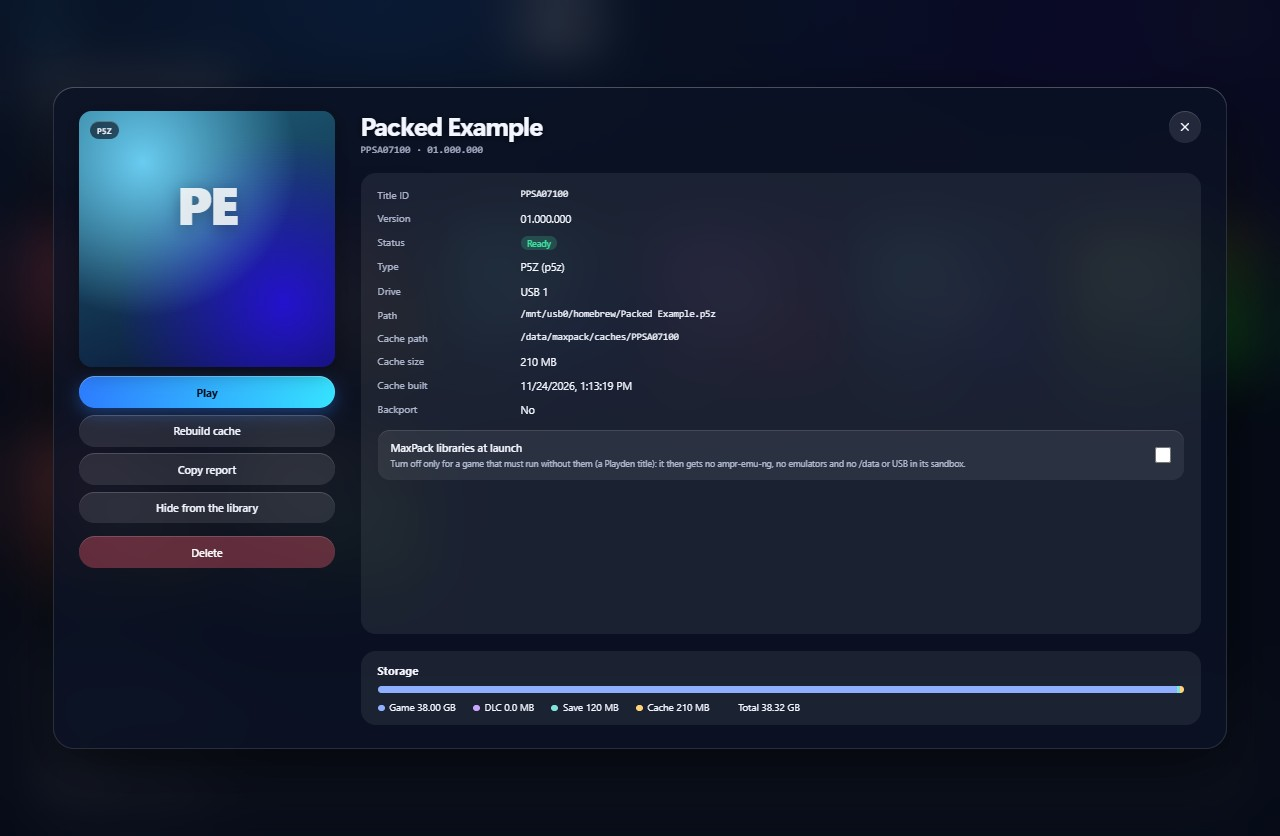
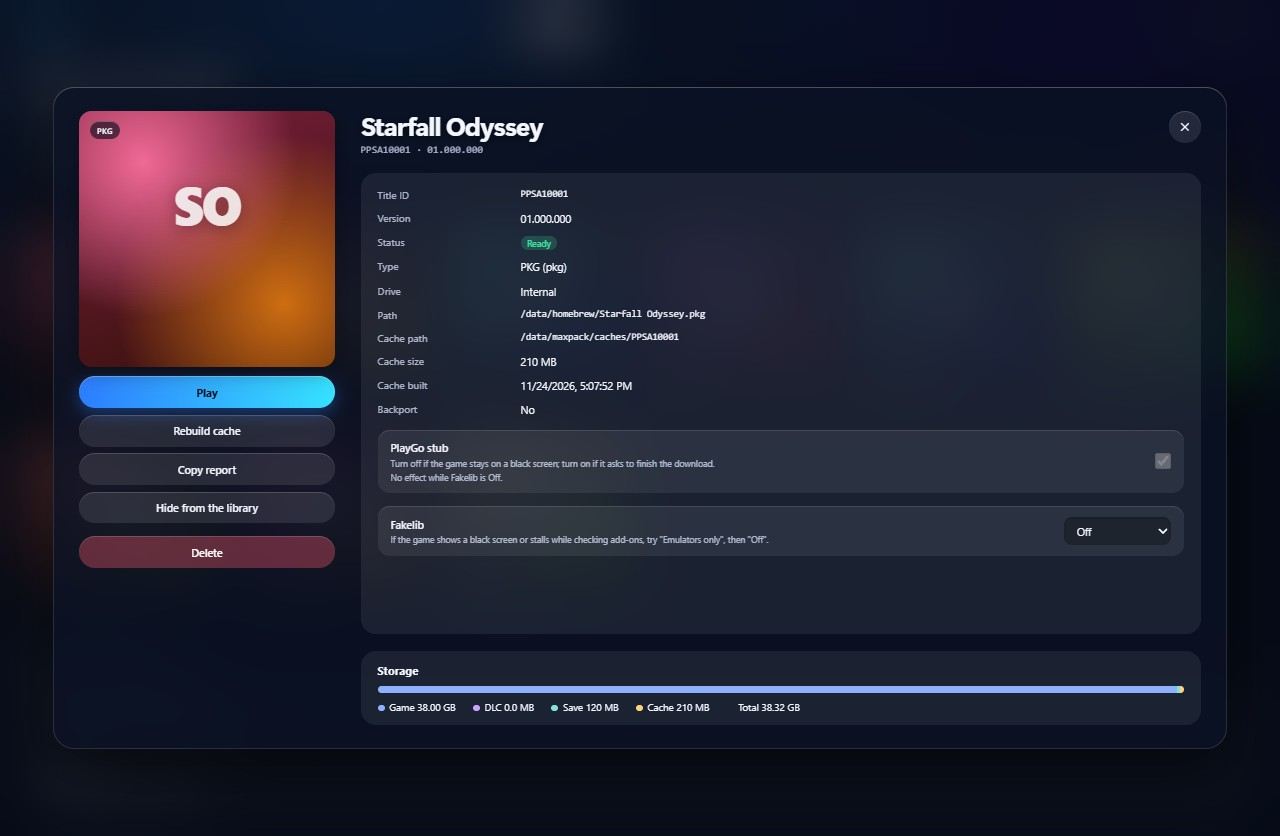
Compatibility list without game names; Copy report row to match; new game sheet screenshot
- docs/compatibility.md: a new table that names no game and gives no title ID (Original -> .p5z,
  Format, Volumes, Drive, Firmware, Loader/mounter, Fakelib mode, Result, Date, Notes), with the
  console results of 24 Nov 2026 for games A, B and C and the earlier zstd folder test.
- Game report form: the same fields, no name or title ID asked for.
- report::compat_row: the row in the new column order, with Drive (drive_text) and Fakelib mode,
  and no name, title ID or game version; the mock, DESIGN.md and the checklist follow.
- docs/img/console-game.jpg: retaken from the mock, a game sheet with the Fakelib selector set to Off.

diff --git a/tools/mock_ui.js b/tools/mock_ui.js
@@ -392,8 +392,12 @@ http.createServer((req, res) => {
       const g = games().find((x) => x.title_id === p.slice('/api/report/'.length));
       if (!g) return send(res, 404, 'text/plain', 'not found');
       // The shape of maxpack_logic::report::text, with fixed values.
-      const kinds = { pkg: ['pkg', 'pkg'], p5z: ['p5z', 'p5z'], plain: ['folder', 'carpeta'], zstd: ['folder (zstd)', 'carpeta zstd'], lz4: ['folder (lz4)', 'carpeta lz4'] };
-      const [en, es] = kinds[g.kind === 'folder' ? g.packing : g.kind];
+      const kinds = { pkg: ['pkg', 'pkg'], p5z: ['p5z', 'p5z'], plain: ['folder', 'plain folder'], zstd: ['folder (zstd)', 'zstd folder'], lz4: ['folder (lz4)', 'LZ4 folder'] };
+      const [en, format] = kinds[g.kind === 'folder' ? g.packing : g.kind];
+      // maxpack_logic::report::compat_row: no name, no title id; drive_text and the Fakelib mode in the page's words.
+      const drive = { '/data': 'internal SSD', '/mnt/ext1': 'M.2 SSD (console slot)', '/mnt/ext0': 'USB SSD or HDD? (extended storage)' }[g.drive]
+        || (/^\/mnt\/usb\d+$/.test(g.drive) ? 'USB SSD or HDD?' : g.drive);
+      const mode = g.overlay_off ? 'none (MaxPack libraries at launch off)' : { full: 'Full', emulators: 'Emulators only', off: 'Off' }[g.fakelib_mode];
       const text = [`MaxPack 1.0.0: game report`, 'Firmware: 13.60', 'Mounting: MaxPack mounts the games',
         `Game: ${g.title_name} (${g.title_id}), version ${g.version}`, `Source: ${g.path} (${en}, ${g.drive})`,
         `Status: ${g.status}${g.error ? ` (${g.error})` : ''}`].concat(g.hidden ? ['Hidden in the library: yes'] : [],
@@ -403,8 +407,8 @@ http.createServer((req, res) => {
           g.fakelib_mode === 'off' ? [`Fakelib mode: off (${g.kind === 'folder' && g.packing === 'plain' ? 'empty: nothing at launch' : 'only ampr-emu-ng'})`] : [],
         ['ampr-emu-ng: bundled v0.5.1-maxpack.1', `PlayGo stub: ${g.fakelib_mode === 'off' ? 'not added (fakelib mode off)' : 'on'}`,
           `Last crash: ${g.crash ? `2026-11-23 20:10:00Z in ${g.crash.process}, ${g.crash.status} (console dump folder ${g.title_id}_1795166239)` : 'none recorded'}`,
-          '', 'Row for docs/compatibility.md (fill in the result and the date):',
-          `| ${g.title_id} | ${g.title_name} | ${g.version} | ${es} | 13.60 | MaxPack 1.0.0 | ? | ? |`, '',
+          '', 'Row for docs/compatibility.md (fill in each ?; it names no game):',
+          `| ? | ${format} | ${g.kind === 'p5z' ? '?' : '—'} | ${drive} | 13.60 | MaxPack 1.0.0 | ${mode} | ? | ? |  |`, '',
           `maxpack.log, last 40 lines with ${g.title_id}:`, `2026-11-23 20:00:05Z [5000] ${g.title_id}: cache fresh`]).join('\n') + '\n';
       return send(res, 200, 'text/plain; charset=utf-8', text);
     }

diff --git a/crates/maxpack-logic/src/report.rs b/crates/maxpack-logic/src/report.rs
@@ -41,14 +41,47 @@ pub struct Report<'a> {
     pub log: &'a str,
 }
 
-/// The source kind as /api/state names it: (the report's words, the compatibility list's words).
+/// The source kind as /api/state names it: (the report's words, the compatibility list's Format).
 pub fn kind_text(kind: &str, packing: Option<&str>) -> (&'static str, &'static str) {
     match (kind, packing) {
         ("pkg", _) => ("pkg", "pkg"),
         ("p5z", _) => ("p5z", "p5z"),
-        (_, Some("zstd")) => ("folder (zstd)", "carpeta zstd"),
-        (_, Some("lz4")) => ("folder (lz4)", "carpeta lz4"),
-        _ => ("folder", "carpeta"),
+        (_, Some("zstd")) => ("folder (zstd)", "zstd folder"),
+        (_, Some("lz4")) => ("folder (lz4)", "LZ4 folder"),
+        _ => ("folder", "plain folder"),
+    }
+}
+
+/// A compatibility-row cell: empty is `?`, a `|` is escaped and a control character (a line break or a
+/// tab) is a space, so the row stays one markdown line.
+fn cell(s: &str) -> String {
+    if s.is_empty() {
+        return "?".into();
+    }
+    s.chars().map(|c| if c.is_control() { ' ' } else { c }).collect::<String>().replace('|', "\\|")
+}
+
+/// The compatibility list's Drive for the mount of a game's drive (`Source::drive`). `/mnt/ext1` is the
+/// M.2 slot, `/mnt/ext0` USB extended storage; on USB the console does not say whether the drive is an
+/// SSD or a hard drive, so the row asks. Any other mount is shown as it is.
+pub fn drive_text(drive: &str) -> String {
+    let usb = drive.strip_prefix("/mnt/usb").is_some_and(|n| !n.is_empty() && n.bytes().all(|b| b.is_ascii_digit()));
+    match drive {
+        "/data" => "internal SSD".into(),
+        "/mnt/ext1" => "M.2 SSD (console slot)".into(),
+        "/mnt/ext0" => "USB SSD or HDD? (extended storage)".into(),
+        _ if usb => "USB SSD or HDD?".into(),
+        _ => cell(drive),
+    }
+}
+
+/// The compatibility list's Fakelib mode, with the page's words; a game without the overlay gets none.
+fn fakelib_text(r: &Report) -> &'static str {
+    match r.fakelib {
+        _ if r.overlay_off => "none (MaxPack libraries at launch off)",
+        Mode::Full => "Full",
+        Mode::Emulators => "Emulators only",
+        Mode::Off => "Off",
     }
 }
 
@@ -75,18 +108,17 @@ pub fn utc(secs: u64) -> String {
     format!("{year:04}-{month:02}-{day:02} {:02}:{:02}:{:02}Z", rem / 3600, rem / 60 % 60, rem % 60)
 }
 
-/// A row of `docs/compatibility.md` with the result and the date left to fill in ("?"): the
-/// console's clock is often years behind, so the date is not taken from it. A `|` is escaped and a
-/// control character (a line break or a tab in a param.json name) is a space, so the row stays one line.
+/// A row of `docs/compatibility.md`, in its column order: Original → `.p5z`, Format, Volumes, Drive,
+/// Firmware, Loader/mounter, Fakelib mode, Result, Date, Notes. The list names no game, so the row has
+/// no name, title id or game version. What the report does not know is left as `?` to fill in: the
+/// sizes, a `.p5z`'s volumes (a folder or a pkg has none: `—`), the result and the date (the console's
+/// clock is often years behind, so the date is not taken from it). Notes are left empty.
 pub fn compat_row(r: &Report) -> String {
-    let cell = |s: &str| if s.is_empty() {
-        "?".to_string()
-    } else {
-        s.chars().map(|c| if c.is_control() { ' ' } else { c }).collect::<String>().replace('|', "\\|")
-    };
+    let volumes = if r.kind == "p5z" { "?" } else { "—" };
     let cells = [
-        cell(r.title_id), cell(r.title_name), cell(r.game_version), kind_text(r.kind, r.packing).1.to_string(),
-        cell(r.firmware.unwrap_or("")), format!("MaxPack {}", r.version), "?".into(), "?".into(),
+        "?".into(), kind_text(r.kind, r.packing).1.to_string(), volumes.into(), drive_text(r.drive),
+        cell(r.firmware.unwrap_or("")), format!("MaxPack {}", r.version), fakelib_text(r).into(), "?".into(), "?".into(),
+        String::new(),
     ];
     format!("| {} |", cells.join(" | "))
 }
@@ -132,7 +164,7 @@ pub fn text(r: &Report) -> String {
         format!("PlayGo stub: {}", r.playgo),
         format!("Last crash: {crash}"),
         String::new(),
-        "Row for docs/compatibility.md (fill in the result and the date):".into(),
+        "Row for docs/compatibility.md (fill in each ?; it names no game):".into(),
         compat_row(r),
         String::new(),
         format!("maxpack.log, last {LOG_LINES} lines with {}:", r.title_id),
@@ -162,10 +194,24 @@ mod tests {
     fn kinds() {
         assert_eq!(kind_text("pkg", None), ("pkg", "pkg"));
         assert_eq!(kind_text("p5z", None), ("p5z", "p5z"));
-        assert_eq!(kind_text("folder", Some("plain")), ("folder", "carpeta"));
-        assert_eq!(kind_text("folder", Some("zstd")), ("folder (zstd)", "carpeta zstd"));
-        assert_eq!(kind_text("folder", Some("lz4")), ("folder (lz4)", "carpeta lz4"));
-        assert_eq!(kind_text("folder", None), ("folder", "carpeta"));
+        assert_eq!(kind_text("folder", Some("plain")), ("folder", "plain folder"));
+        assert_eq!(kind_text("folder", Some("zstd")), ("folder (zstd)", "zstd folder"));
+        assert_eq!(kind_text("folder", Some("lz4")), ("folder (lz4)", "LZ4 folder"));
+        assert_eq!(kind_text("folder", None), ("folder", "plain folder"));
+    }
+
+    #[test]
+    fn drives() {
+        assert_eq!(drive_text("/data"), "internal SSD");
+        assert_eq!(drive_text("/mnt/ext1"), "M.2 SSD (console slot)");
+        // On USB the report cannot tell an SSD from a hard drive: the row asks.
+        assert_eq!(drive_text("/mnt/ext0"), "USB SSD or HDD? (extended storage)");
+        assert_eq!(drive_text("/mnt/usb0"), "USB SSD or HDD?");
+        assert_eq!(drive_text("/mnt/usb7"), "USB SSD or HDD?");
+        // Any other mount is shown as it is, and none at all as ?.
+        assert_eq!(drive_text("/mnt/usbx"), "/mnt/usbx");
+        assert_eq!(drive_text("/mnt/ext2"), "/mnt/ext2");
+        assert_eq!(drive_text(""), "?");
     }
 
     #[test]
@@ -189,20 +235,38 @@ mod tests {
 
     #[test]
     fn the_compatibility_row() {
+        // Original -> .p5z, Format, Volumes, Drive, Firmware, Loader/mounter, Fakelib mode, Result, Date, Notes.
         let r = starfall("", None);
-        assert_eq!(compat_row(&r), "| PPSA10001 | Starfall Odyssey | 01.000.010 | carpeta zstd | 13.60 | MaxPack 1.0.0 | ? | ? |");
-        // A | in a name would split the cell; no firmware and no version show as ?.
-        let r = Report { title_name: "A | B", firmware: None, game_version: "", kind: "p5z", packing: None, ..starfall("", None) };
-        assert_eq!(compat_row(&r), "| PPSA10001 | A \\| B | ? | p5z | ? | MaxPack 1.0.0 | ? | ? |");
+        assert_eq!(compat_row(&r), "| ? | zstd folder | — | internal SSD | 13.60 | MaxPack 1.0.0 | Full | ? | ? |  |");
+        // A .p5z has volumes, to fill in; no firmware shows as ?.
+        let r = Report { firmware: None, kind: "p5z", packing: None, drive: "/mnt/ext1", fakelib: Mode::Emulators, ..starfall("", None) };
+        assert_eq!(compat_row(&r), "| ? | p5z | ? | M.2 SSD (console slot) | ? | MaxPack 1.0.0 | Emulators only | ? | ? |  |");
+        let r = Report { kind: "pkg", packing: None, drive: "/mnt/usb0", fakelib: Mode::Off, ..starfall("", None) };
+        assert_eq!(compat_row(&r), "| ? | pkg | — | USB SSD or HDD? | 13.60 | MaxPack 1.0.0 | Off | ? | ? |  |");
+        // Without the overlay there is no fakelib at all, whatever its mode says.
+        let r = Report { kind: "folder", packing: Some("plain"), overlay_off: true, fakelib: Mode::Off, ..starfall("", None) };
+        assert_eq!(compat_row(&r), "| ? | plain folder | — | internal SSD | 13.60 | MaxPack 1.0.0 | none (MaxPack libraries at launch off) | ? | ? |  |");
+    }
+
+    #[test]
+    fn the_row_names_no_game() {
+        // The list identifies a game by its numbers only: no name, no title id, no game version.
+        let r = Report { kind: "p5z", packing: None, ..starfall("", None) };
+        let row = compat_row(&r);
+        for game in ["Starfall", "PPSA10001", "01.000.010", "/data/homebrew"] {
+            assert!(!row.contains(game), "{game:?} in {row:?}");
+        }
+        // The rest of the report still has them, for the issue.
+        assert!(text(&r).contains("Game: Starfall Odyssey (PPSA10001), version 01.000.010\n"), "{}", text(&r));
     }
 
     #[test]
     fn control_characters_never_break_the_row() {
-        // A name from param.json may carry a line break, a tab or another control character: each is a
-        // space, so the row stays one markdown line.
-        let r = Report { title_name: "Line one\r\nLine\ttwo\u{7}|x", game_version: "01.0\n00", ..starfall("", None) };
+        // A | would split a cell and a line break, a tab or another control character would break the
+        // markdown line: a | is escaped and each control character is a space.
+        let r = Report { drive: "/mnt/odd|one\r\nx\t\u{7}", firmware: Some("13.6\n0"), ..starfall("", None) };
         let row = compat_row(&r);
-        assert_eq!(row, "| PPSA10001 | Line one  Line two \\|x | 01.0 00 | carpeta zstd | 13.60 | MaxPack 1.0.0 | ? | ? |");
+        assert_eq!(row, "| ? | zstd folder | — | /mnt/odd\\|one  x   | 13.6 0 | MaxPack 1.0.0 | Full | ? | ? |  |");
         assert!(!row.chars().any(char::is_control), "{row:?}");
         // The whole report keeps the row on one line too.
         assert!(text(&r).contains(&format!("\n{row}\n")), "{}", text(&r));
@@ -223,8 +287,8 @@ ampr-emu-ng: bundled v0.5.0-maxpack.3\n\
 PlayGo stub: on\n\
 Last crash: 2026-01-01 00:00:00Z in eboot.bin, killed by signal 11 (console dump folder PPSA10001_1795166239)\n\
 \n\
-Row for docs/compatibility.md (fill in the result and the date):\n\
-| PPSA10001 | Starfall Odyssey | 01.000.010 | carpeta zstd | 13.60 | MaxPack 1.0.0 | ? | ? |\n\
+Row for docs/compatibility.md (fill in each ?; it names no game):\n\
+| ? | zstd folder | — | internal SSD | 13.60 | MaxPack 1.0.0 | Full | ? | ? |  |\n\
 \n\
 maxpack.log, last 40 lines with PPSA10001:\n\
 2026-01-01 00:00:00Z [1] PPSA10001: built\n\

diff --git a/docs/compatibility.md b/docs/compatibility.md
@@ -1,38 +1,57 @@
 # Compatibility
 
 Which games have been tested with MaxPack, on which console and with what result. The list is public:
-anyone can add a test. One row per game, version, firmware and mounter; if the result changes with
-another version of MaxPack or of the game, it goes in a new row and the old one stays.
+anyone can add a test. One row per test; if the result changes with another version of MaxPack, another
+drive or another Fakelib mode, it goes in a new row and the old one stays.
 
-Reports in English or Spanish are welcome. You can also open a
-[game report](https://github.com/DeLFuS77/maxpack-ps5/issues/new?template=game_report.yml) and the
-row will be added from it.
+**No game names and no title IDs.** By the project owner's choice, this list identifies a game only by its
+numbers: its size before and after packing, its volumes, and the setup it was tested on. Please do not add
+a name or a title ID to a row, not even in the notes; a report or a pull request that has one is edited
+before it goes in. Games A, B and C are the ones in the README's
+[Tested on a real PS5](../README.md#tested-on-a-real-ps5).
+
+Reports in English or Spanish are welcome.
 
 ## How to add a row
 
 1. On MaxPack's page, open the game's sheet and press **Copy report**. At the end the report has the
-   row ready: `TITLE_ID`, name, version, source, firmware and mounter.
-2. Fill in the result and the date. The real date: the clock of an offline console is often years
-   behind, which is why the report does not fill it in.
-3. Add the row to the table, in `TITLE_ID` order.
+   row ready, in this list's column order and with no name or title ID: format, drive, firmware,
+   MaxPack's version and Fakelib mode are filled in, and each `?` is for you to fill.
+2. Fill in each `?`: the sizes, a `.p5z`'s volumes, whether a USB drive is an SSD or a hard drive, the
+   result and the date. The real date: the clock of an offline console is often years behind, which is
+   why the report does not fill it in.
+3. Open a [game report](https://github.com/DeLFuS77/maxpack-ps5/issues/new?template=game_report.yml) and
+   paste the row there (the row is added from it), or add it at the end of the table in a pull request.
 
 Columns:
-- **Title ID**: the one in `sce_sys/param.json` (`PPSA...`, `CUSA...`).
-- **Game**: the name shown on the home screen.
-- **Version**: `contentVersion` in `param.json`.
-- **Source**: `pkg` (debug FPKG), `folder` (unpacked), `zstd folder` or `lz4 folder` (packed) or
-  `p5z` (a MaxPack file, played without installing). In brackets, what it was packed with when it
-  matters.
+- **Original → `.p5z`**: the game's size before and after packing, in GiB as the console page shows
+  them, and how much smaller (`7.8 → 2.3 GiB (−70 %)`). For a packed folder, the folder's size after
+  packing.
+- **Format**: `p5z` (a MaxPack file, played without installing), `zstd folder` or `LZ4 folder` (packed),
+  `pkg` (debug FPKG), `plain folder` (unpacked) or `installed` (put on the console with MaxPack's Install
+  tab, which has not been tested on a real PS5 yet).
+- **Volumes**: how many volumes the `.p5z` has (`maxpack info` on the PC shows it); `—` for the other
+  formats.
+- **Drive**: `internal SSD`, `M.2 SSD (console slot)`, `USB SSD` or `USB HDD`, with how it is connected
+  when it matters (an M.2 SSD in a USB-C enclosure is a USB SSD).
 - **Firmware**: the console's (Settings > System > System Software).
-- **Mounter**: the one that mounted the game, with its version (`MaxPack 1.0.0`,
-  `ShadowMountPlus 1.7beta12`...). MaxPack 1.0.0 is the first published version (mounting, and playing
-  from the `.p5z`); rows that say "MaxPack stage 1" or "stage 2" come from the earlier test builds
-  (0.1.x and 0.2.x).
+- **Loader/mounter**: the one that mounted the game, with its version (`MaxPack 1.0.0`,
+  `ShadowMountPlus 1.7beta12`...). MaxPack 1.0.0 is the first published version; a "test build" and
+  "MaxPack stage 1" are earlier builds made while it was being tested.
+- **Fakelib mode**: MaxPack's setting on the game's sheet (`Full`, `Emulators only` or `Off`), or
+  `none (MaxPack libraries at launch off)`; for another mounter, its own mode.
 - **Result**: what was checked (boots, saves, loads, plays up to a given point) and what fails.
 - **Date**: the day of the test, `YYYY-MM-DD`.
+- **Notes**: anything else worth knowing: what was tried before it worked, how fast it loads.
 
 ## List
 
-| Title ID | Game | Version | Source | Firmware | Mounter | Result | Date |
-|---|---|---|---|---|---|---|---|
-| PPSA12544 | Hollow Knight: Silksong | 01.000.010 | zstd folder (packed with MaxPack) | 13.60 | ShadowMountPlus 1.7beta12 and MaxPack stage 1 | Boots, saves and loads a game | 2026-11-24 |
+| Original → `.p5z` | Format | Volumes | Drive | Firmware | Loader/mounter | Fakelib mode | Result | Date | Notes |
+|---|---|---|---|---|---|---|---|---|---|
+| 7.8 → 2.3 GiB (−70 %) | p5z | 1 | internal SSD | 13.60 | MaxPack test build (before 1.0.0) | Full | Plays, saves and loads | 2026-11-24 | Game A. |
+| 69.0 → 33.2 GiB (−51 %) | p5z | 9 | USB SSD (M.2 over USB-C) | 13.60 | MaxPack test build (before 1.0.0) | Full | Played without problems | 2026-11-24 | Game B. Reads from the `.p5z` took about 2 ms each on this drive. |
+| 124.4 → 74.1 GiB (−40 %) | p5z | 19 | USB SSD (the same M.2 over USB-C) | 13.60 | MaxPack test build, then 1.0.0 | Off | Reaches the main menu and opens its saves | 2026-11-24 | Game C. Only ampr-emu-ng in its `fakelib/`: set by hand during the test, then with the 1.0.0 setting. With the dump's backport libraries it showed a black screen; with the bundled PlayGo stub it stalled at the add-on check. |
+| not noted | zstd folder | — | not noted | 13.60 | ShadowMountPlus 1.7beta12 and MaxPack stage 1 | ShadowMountPlus's default (Full) | Boots, saves and loads | 2026-11-24 | Game A as a folder packed with MaxPack for the PC, tested before the `.p5z` rows. |
+
+Also seen on that console: a mechanical USB hard drive was far too slow for a large `.p5z` (see the
+README's [Storage advice](../README.md#storage-advice)).

diff --git a/DESIGN.md b/DESIGN.md
@@ -81,7 +81,7 @@ A flat TOML subset: `key = value` with strings, `true`/`false`, integers and arr
 | `exclude` | [] | array of absolute paths the scan never opens (`maxpack_logic::exclude`: no control character; `//`, `.` and `..` resolved as text, trailing `/` trimmed, duplicates dropped): a source at an entry or under it (whole path components, `scan::excluded`) is skipped by the scan before duplicate detection, never listed or descended into (an excluded root is not even listed): not in games, duplicates, errors or unstable, never built or registered. A title still registered stays on the home screen (as ShadowMountPlus removing a manual source) with its built cache, whose overlay its launch still gets, and auto-remove leaves it too, since its source is still there; but it stays playable only until a reboot (or, for a source on USB, a replug): `register::mount` redoes the `/system_ex/app/<TID>` nullfs only for scanned titles, so after that its tile has no `/app0`. A purge (Settings) deletes its cache and unmounts its `/system_ex/app/<TID>`, since only the scanned titles are kept; for a pkg or `.p5z` that cache is its `/app0`, so the tile no longer starts. Take a game off the home screen before excluding it (Delete, or the installer's Uninstall), or take the path off `exclude` to have it back. Edited in the settings form ("Excluded paths"); a source excluded while a pass runs is skipped before its build or register. Ported from the upstream project's 0.3.2 |
 | `inject_ampr` | true | copy `/data/maxpack/ampr/*` on top of a folder game's fakelib; pkg games always get it (pkg mode exists only in ampr-emu-ng) (a change only refreshes `fakelib/`) |
 | `add_emulators` | true | add the bundled DLC (dlc_emu) and PlayGo (pgo_stub) emulators to a game's fakelib when it needs them and ships none (a change only refreshes `fakelib/`) |
-| `playgo_off` | [] | array of title ids (`playgo_off = ["PPSA01556"]`) that get no bundled PlayGo stub: pgo_stub is neither added nor upgraded, a `libScePlayGo.sprx` the game or backport ships stays as shipped; the dlc_emu set is unaffected. Per game from the UI (`POST /api/playgo/<TID>`); a change only refreshes `fakelib/` |
+| `playgo_off` | [] | array of title ids (`playgo_off = ["PPSA10001"]`) that get no bundled PlayGo stub: pgo_stub is neither added nor upgraded, a `libScePlayGo.sprx` the game or backport ships stays as shipped; the dlc_emu set is unaffected. Per game from the UI (`POST /api/playgo/<TID>`); a change only refreshes `fakelib/` |
 | `hidden` | [] | array of title ids the page's library does not show unless its "show hidden" switch is on (a per-browser choice). Page only: a hidden game is still built, registered, mounted and on the home screen, and `/api/state` still lists it (`hidden: true`). Per game from the game sheet (`POST /api/hidden/<TID>`); the settings form keeps the list |
 | `overlay_off` | [] | array of title ids whose cache gets an empty `fakelib/`, so the launch watcher mounts nothing in their sandbox: no overlay (not the game's or backport's fakelib, not ampr-emu-ng, not the emulators), no `/data`, USB, fonts or writable `/app0` either; the title runs as registered (for a game that must not get MaxPack's libraries, such as a Playden title shell). Plain folder games only (`maxpack_logic::overlay`): a pkg is read through ampr-emu-ng's pkg mode, a `.p5z` only through our ampr-emu-ng's p5z mode, and a zstd or LZ4 folder's packs only through ampr-emu-ng, all of which come in that overlay; so the web refuses it for them (409) and a listed title whose library copy is one of those (packed since, or a pkg or `.p5z` copy took over) keeps its fakelib. Per game from the game sheet (`POST /api/overlay/<TID>`); the settings form keeps the list; a change only refreshes `fakelib/`. Ported from the upstream project's 0.3.2, with the `.p5z` and packed folder refusals ours |
 | `fakelib_emulators` | [] | array of title ids whose fakelib mode is `emulators`: their cache's `fakelib/` gets nothing from the game's or the backport's lib dir, only the bundled emulators they need (`add_emulators`, `playgo_off` as usual) and ampr-emu-ng (see Cache). For a game that shows a black screen with the libraries its dump or backport ships. Per game from the game sheet (`POST /api/fakelib/<TID>`); the settings form keeps the list; a change only refreshes `fakelib/` |
@@ -626,8 +626,12 @@ minute):
   the fakelib mode when not `full` (`Fakelib mode: emulators only (...)`, `Fakelib mode: off (only ampr-emu-ng)` or
   `(empty: nothing at launch)` for a plain folder), ampr-emu-ng (`/api/ampr` kind and
   version), the PlayGo stub (on, off, or not added), the last crash, a ready row for `docs/compatibility.md`
-  (`compat_row`: result and date left as `?`, since the console's clock is often wrong; a `|` in the name escaped),
-  and the last 40 lines of the log tail (64 KiB) that contain the title id; 404 for an invalid or absent library
+  (`compat_row`, in the list's column order: Original → `.p5z`, Format (`kind_text`), Volumes, Drive (`drive_text`:
+  `/data` internal SSD, `/mnt/ext1` M.2 SSD, `/mnt/usbN` and `/mnt/ext0` "USB SSD or HDD?"), Firmware, Loader/mounter
+  (`MaxPack <version>`), Fakelib mode (Full, Emulators only, Off, or none for an `overlay_off` game), Result, Date, Notes;
+  no game name, title id or game version, since the list names no game; the sizes, a `.p5z`'s volumes, the result and
+  the date are left as `?`, the date because the console's clock is often wrong; a `|` escaped and a control character
+  a space), and the last 40 lines of the log tail (64 KiB) that contain the title id; 404 for an invalid or absent library
   title. The game sheet's "Copy report" copies it.
 - `GET /api/ampr` -> `{kind: "bundled"|"downloaded"|"hand"|"missing"|"error", version, updating}` of
   `ampr/libSceAmpr.sprx`; `POST /api/ampr/update` -> forced update, answered when done: 200 + result text,

diff --git a/README.md b/README.md
@@ -134,7 +134,7 @@ from its `.p5z`, without unpacking it:
 
 Every game tried, with firmware, mounter and result, goes into the
 [compatibility list](docs/compatibility.md). Tried one? Open the game's sheet, press **Copy report** (it
-has the row ready) and paste it in a
+ends with the row, which names no game) and paste that row in a
 [Game report](https://github.com/DeLFuS77/maxpack-ps5/issues/new?template=game_report.yml), whether it
 worked or not. How much MaxPack for the PC saves on other games, measured on the PC, is in the
 [engine's report](https://github.com/DeLFuS77/maxpack/blob/main/docs/reports/phase1.md).
@@ -280,13 +280,14 @@ The whole flow, from packing on the PC:
 
 ### A sheet for every game
 
-<p align="center"><img src="docs/img/console-game.jpg" alt="A .p5z game's sheet: Play, Rebuild cache, Copy report, Hide, Delete, and its details and storage"></p>
+<p align="center"><img src="docs/img/console-game.jpg" alt="A game's sheet: Play, Rebuild cache, Copy report, Hide, Delete, its details, the PlayGo stub and Fakelib (here Off), and its storage"></p>
 
 - **Play** starts the game on the console, even from your phone. It is off while another game runs,
   while the game is not Ready, or while another mounter is running.
 - **Copy report** gives a ready-to-paste text for an issue: MaxPack's version, the firmware, the
   mounter, the game, its source and state, ampr-emu-ng, the **last crash** if the game closed by
-  itself, the last lines of the log and a row for the [compatibility list](docs/compatibility.md).
+  itself, the last lines of the log and a row for the [compatibility list](docs/compatibility.md)
+  (the row names no game).
 - **Rebuild cache** redoes what MaxPack keeps for the game; **Delete** removes the game from the
   drive after asking you.
 - **Storage** shows what the game, its DLC, its saves and its cache take.
@@ -564,8 +565,9 @@ MaxPack has run on one console so far, so every report from another firmware, ga
 and a game that works is as useful to know as one that does not. English or Spanish are both fine.
 
 - **Tried a game?** Open a
-  [Game report](https://github.com/DeLFuS77/maxpack-ps5/issues/new?template=game_report.yml). The
-  game's **Copy report** fills most of it, and the result goes into the
+  [Game report](https://github.com/DeLFuS77/maxpack-ps5/issues/new?template=game_report.yml); you do
+  not need to name the game. The row at the end of its **Copy report** fills most of it, and the result
+  goes into the
   [compatibility list](docs/compatibility.md).
 - **Found a bug?** Open a
   [Bug report](https://github.com/DeLFuS77/maxpack-ps5/issues/new?template=bug_report.yml) and paste

diff --git a/docs/console-tests.md b/docs/console-tests.md
@@ -575,7 +575,8 @@ note it in [`compatibility.md`](compatibility.md) (7.3's report has the row read
   - On the sheet, press "Copy report" from the PC or the phone. Expected: "Report copied." and, when
     pasted, the report: MaxPack's version, **the console's firmware** (check it in Settings > System),
     the mounter, the game, source, status, ampr-emu-ng, the PlayGo stub, last crash, the row for
-    `compatibility.md` and the last 40 log lines with its `TITLE_ID`.
+    `compatibility.md` (no game name or title ID in it: format, drive, firmware, MaxPack's version and
+    the Fakelib mode, and `?` for the rest) and the last 40 log lines with its `TITLE_ID`.
   - From the PS5's browser: if it cannot copy, the text is shown selected below, to copy by hand.
     Also at `http://<console-ip>:8095/api/report/<TID>`.
   - If the firmware shows as `(unknown: please fill in)`, note it: the console did not give it.
